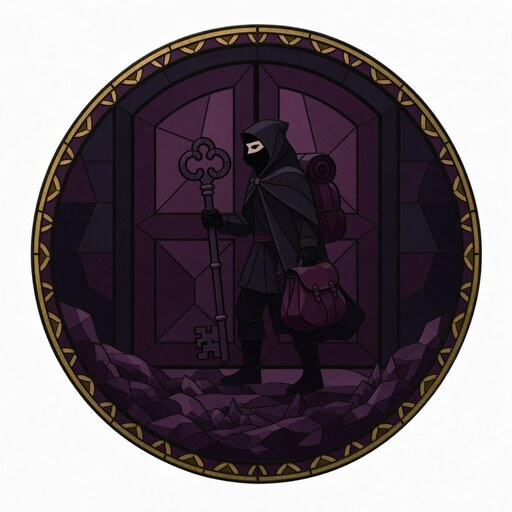
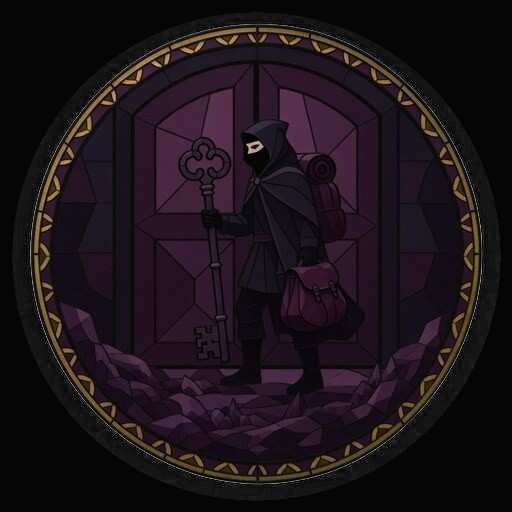
Archetype colouring for skills, black plate art, richer demo progress
- Per-archetype accent on panel wash, progress rings, rated labels, max rank
- Replace white circular plate surrounds with smoky black on archetype art
- Seed Torvald/Leifr with more rated skills and partial Practice tracks

diff --git a/packages/design/campaign.css b/packages/design/campaign.css
@@ -1097,7 +1097,7 @@ a.member:hover {
   border-color: var(--kod-blood-bright);
 }
 
-/* Skills — large 3×4 archetype panels */
+/* Skills — large 3×4 archetype panels (per-archetype colour) */
 .skill-wheel {
   display: grid;
   grid-template-columns: repeat(3, minmax(0, 1fr));
@@ -1117,11 +1117,58 @@ a.member:hover {
 }
 
 .arch {
+  --arch-accent: var(--kod-blood);
+  --arch-accent-bright: var(--kod-blood-bright);
+  --arch-accent-deep: var(--kod-blood-deep);
+  --arch-track: #1a1414;
   position: relative;
   overflow: hidden;
   min-height: 14rem;
-  background: #0a0808;
-  border-top: 3px solid color-mix(in srgb, var(--kod-blood) 40%, #333);
+  background: linear-gradient(
+    180deg,
+    color-mix(in srgb, var(--arch-accent) 22%, #0a0808) 0%,
+    #080606 72%
+  );
+  border-top: 3px solid color-mix(in srgb, var(--arch-accent) 70%, #333);
+  box-shadow: inset 0 0 40px color-mix(in srgb, var(--arch-accent) 8%, transparent);
+}
+
+/* Guidebook archetype washes */
+.arch--warrior {
+  --arch-accent: #b01c1c;
+  --arch-accent-bright: #d03030;
+  --arch-accent-deep: #5a1010;
+  --arch-track: #1c1010;
+}
+.arch--wayfarer {
+  --arch-accent: #2a8a55;
+  --arch-accent-bright: #3cb870;
+  --arch-accent-deep: #0e3a22;
+  --arch-track: #0e1812;
+}
+.arch--artisan {
+  --arch-accent: #8a7a6a;
+  --arch-accent-bright: #b0a090;
+  --arch-accent-deep: #3a322c;
+  --arch-track: #161210;
+}
+.arch--mother {
+  --arch-accent: #c4a035;
+  --arch-accent-bright: #e0c050;
+  --arch-accent-deep: #4a3a10;
+  --arch-track: #18140c;
+}
+.arch--sage {
+  --arch-accent: #5a5ab8;
+  --arch-accent-bright: #7a7ad4;
+  --arch-accent-deep: #1e1e4a;
+  --arch-track: #101018;
+}
+.arch--trickster {
+  --arch-accent: #6a3a7a;
+  --arch-accent-bright: #9a5ab0;
+  --arch-accent-deep: #2a1432;
+  --arch-track: #140e16;
 }
 
 .arch__art {
@@ -1134,9 +1181,9 @@ a.member:hover {
   width: 100%;
   height: 100%;
   object-fit: cover;
-  object-position: center 18%;
-  opacity: 0.38;
-  filter: saturate(0.75) contrast(1.08) brightness(0.72);
+  object-position: center center;
+  opacity: 0.42;
+  filter: saturate(0.9) contrast(1.05) brightness(0.88);
 }
 
 .arch__art::after {
@@ -1144,8 +1191,20 @@ a.member:hover {
   position: absolute;
   inset: 0;
   background:
-    linear-gradient(180deg, rgba(5, 5, 5, 0.2) 0%, rgba(5, 5, 5, 0.55) 45%, rgba(5, 5, 5, 0.92) 100%),
-    linear-gradient(90deg, rgba(5, 5, 5, 0.55) 0%, transparent 40%);
+    radial-gradient(
+      ellipse 70% 65% at 50% 38%,
+      transparent 25%,
+      color-mix(in srgb, var(--arch-accent-deep) 35%, transparent) 70%,
+      rgba(5, 5, 5, 0.88) 100%
+    ),
+    linear-gradient(
+      180deg,
+      color-mix(in srgb, var(--arch-accent-deep) 40%, transparent) 0%,
+      transparent 28%,
+      rgba(5, 5, 5, 0.55) 62%,
+      rgba(5, 5, 5, 0.94) 100%
+    ),
+    linear-gradient(90deg, rgba(5, 5, 5, 0.5) 0%, transparent 35%);
 }
 
 .arch__body {
@@ -1164,13 +1223,15 @@ a.member:hover {
   font-size: 1.15rem;
   text-shadow: 0 1px 6px #000;
   margin-bottom: 0.1rem;
+  border-left: 3px solid var(--arch-accent);
+  padding-left: 0.45rem;
 }
 
 .arch__tag {
   display: block;
   font-size: 0.75rem;
-  color: var(--kod-silver-dim);
-  margin-bottom: 0.55rem;
+  color: color-mix(in srgb, var(--kod-silver-dim) 75%, var(--arch-accent-bright));
+  margin: 0.15rem 0 0.55rem 0.55rem;
 }
 
 .arch__skills {
@@ -1202,19 +1263,34 @@ a.member:hover {
   height: 2.85rem;
   margin: 0 auto 0.25rem;
   border-radius: 50%;
-  background: conic-gradient(var(--kod-blood) calc(var(--p) * 1turn), #1e1818 0);
+  background: conic-gradient(
+    var(--arch-accent-bright) calc(var(--p) * 1turn),
+    var(--arch-track) 0
+  );
   display: grid;
   place-items: center;
   box-shadow:
     inset 0 0 0 2px #0a0a0a,
-    0 0 0 1px color-mix(in srgb, #000 50%, transparent);
+    0 0 0 1px color-mix(in srgb, var(--arch-accent) 35%, transparent),
+    0 0 10px color-mix(in srgb, var(--arch-accent) 18%, transparent);
+}
+
+.skill[data-rated='true'] .skill__ring {
+  box-shadow:
+    inset 0 0 0 2px #0a0a0a,
+    0 0 0 1px color-mix(in srgb, var(--arch-accent-bright) 55%, transparent),
+    0 0 12px color-mix(in srgb, var(--arch-accent) 28%, transparent);
 }
 
 .skill__inner {
   width: 2.05rem;
   height: 2.05rem;
   border-radius: 50%;
-  background: #0e0c0c;
+  background: radial-gradient(
+    circle at 40% 35%,
+    color-mix(in srgb, var(--arch-track) 40%, #141010),
+    #0a0808 70%
+  );
   display: grid;
   place-items: center;
   font-size: 1.05rem;
@@ -1222,8 +1298,19 @@ a.member:hover {
   font-variant-numeric: tabular-nums;
 }
 
+.skill[data-rated='true'] .skill__inner {
+  color: color-mix(in srgb, #fff8f0 70%, var(--arch-accent-bright));
+  border: 1px solid color-mix(in srgb, var(--arch-accent) 30%, transparent);
+}
+
 .skill[data-rating='0'] .skill__inner {
   color: #4a4440;
+  border: none;
+}
+
+.skill[data-rating='3'] .skill__inner {
+  color: var(--arch-accent-bright);
+  box-shadow: inset 0 0 8px color-mix(in srgb, var(--arch-accent) 35%, transparent);
 }
 
 .skill__name {
@@ -1235,7 +1322,7 @@ a.member:hover {
 }
 
 .skill[data-rated='true'] .skill__name {
-  color: #e8e0d4;
+  color: color-mix(in srgb, #e8e0d4 55%, var(--arch-accent-bright));
 }
 
 /* Echoes — live sheet, not tutorial columns */

diff --git a/packages/store/src/seed.ts b/packages/store/src/seed.ts
@@ -40,15 +40,72 @@ export function demoTorvald(): CharacterRecord {
     },
     foundationsEffective: {},
     skills: [
+      // Artisan core
       {
         name: 'Carpentry & Masonry',
         rating: 2,
-        practice: 12,
+        practice: 28,
         threshold: 48,
         foundation: 'Strength',
       },
-      { name: 'Negotiation', rating: 1, practice: 6, threshold: 24, foundation: 'Authority' },
-      { name: 'Handcrafting', rating: 1, practice: 4, threshold: 24, foundation: 'Dexterity' },
+      {
+        name: 'Handcrafting',
+        rating: 1,
+        practice: 14,
+        threshold: 24,
+        foundation: 'Dexterity',
+      },
+      {
+        name: 'Tinkering & Repair',
+        rating: 1,
+        practice: 9,
+        threshold: 24,
+        foundation: 'Constitution',
+      },
+      {
+        name: 'Appraisal',
+        rating: 1,
+        practice: 4,
+        threshold: 24,
+        foundation: 'Perception',
+      },
+      {
+        name: 'Engineering & Design',
+        rating: 1,
+        practice: 2,
+        threshold: 24,
+        foundation: 'Intellect',
+      },
+      {
+        name: 'Smithing & Forging',
+        rating: 1,
+        practice: 7,
+        threshold: 24,
+        foundation: 'Strength',
+      },
+      // Sage / social
+      {
+        name: 'Negotiation',
+        rating: 1,
+        practice: 16,
+        threshold: 24,
+        foundation: 'Authority',
+      },
+      {
+        name: 'Arithmetic & Accounting',
+        rating: 1,
+        practice: 11,
+        threshold: 24,
+        foundation: 'Intellect',
+      },
+      // Wayfarer scrap
+      {
+        name: 'Tradecraft',
+        rating: 1,
+        practice: 5,
+        threshold: 24,
+        foundation: 'Charisma',
+      },
     ],
     traits: [
       { name: 'Steady hands', note: 'Fine work under haste does not shake him easily.' },
@@ -144,9 +201,86 @@ export function demoLeifr(): CharacterRecord {
     },
     foundationsEffective: {},
     skills: [
-      { name: 'Command', rating: 2, practice: 0, threshold: 48, foundation: 'Authority' },
-      { name: 'Tactics', rating: 1, practice: 10, threshold: 24, foundation: 'Intellect' },
-      { name: 'Intimidate', rating: 1, practice: 3, threshold: 24, foundation: 'Authority' },
+      // Warrior core
+      {
+        name: 'Command',
+        rating: 2,
+        practice: 18,
+        threshold: 48,
+        foundation: 'Authority',
+      },
+      {
+        name: 'Tactics',
+        rating: 1,
+        practice: 19,
+        threshold: 24,
+        foundation: 'Intellect',
+      },
+      {
+        name: 'Intimidate',
+        rating: 1,
+        practice: 12,
+        threshold: 24,
+        foundation: 'Authority',
+      },
+      {
+        name: 'Slash',
+        rating: 1,
+        practice: 8,
+        threshold: 24,
+        foundation: 'Strength',
+      },
+      {
+        name: 'Pierce',
+        rating: 1,
+        practice: 6,
+        threshold: 24,
+        foundation: 'Dexterity',
+      },
+      {
+        name: 'Deflection',
+        rating: 1,
+        practice: 15,
+        threshold: 24,
+        foundation: 'Resolve',
+      },
+      {
+        name: 'Combat Awareness',
+        rating: 1,
+        practice: 10,
+        threshold: 24,
+        foundation: 'Perception',
+      },
+      {
+        name: 'Footwork',
+        rating: 1,
+        practice: 4,
+        threshold: 24,
+        foundation: 'Dexterity',
+      },
+      // Wayfarer edge for ford work
+      {
+        name: 'Scouting',
+        rating: 1,
+        practice: 7,
+        threshold: 24,
+        foundation: 'Perception',
+      },
+      {
+        name: 'Swimming',
+        rating: 1,
+        practice: 3,
+        threshold: 24,
+        foundation: 'Constitution',
+      },
+      // Sage scrap
+      {
+        name: 'Strategy',
+        rating: 1,
+        practice: 5,
+        threshold: 24,
+        foundation: 'Intellect',
+      },
     ],
     traits: [{ name: 'Scarred knuckles', note: 'From the taking of the shore — not from sport.' }],
     exertion: { current: 5, max: 0 },

diff --git a/apps/campaign-ui/src/data/fixture.ts b/apps/campaign-ui/src/data/fixture.ts
@@ -220,9 +220,15 @@ export const fixtureCommunity: FixtureCommunity = {
         Authority: 1,
       },
       skills: [
-        { name: 'Carpentry & Masonry', rating: 2, practice: 12, threshold: 48 },
-        { name: 'Negotiation', rating: 1, practice: 6, threshold: 24 },
-        { name: 'Handcrafting', rating: 1, practice: 4, threshold: 24 },
+        { name: 'Carpentry & Masonry', rating: 2, practice: 28, threshold: 48 },
+        { name: 'Handcrafting', rating: 1, practice: 14, threshold: 24 },
+        { name: 'Tinkering & Repair', rating: 1, practice: 9, threshold: 24 },
+        { name: 'Appraisal', rating: 1, practice: 4, threshold: 24 },
+        { name: 'Engineering & Design', rating: 1, practice: 2, threshold: 24 },
+        { name: 'Smithing & Forging', rating: 1, practice: 7, threshold: 24 },
+        { name: 'Negotiation', rating: 1, practice: 16, threshold: 24 },
+        { name: 'Arithmetic & Accounting', rating: 1, practice: 11, threshold: 24 },
+        { name: 'Tradecraft', rating: 1, practice: 5, threshold: 24 },
       ],
       traits: [{ name: 'Steady hands', note: 'Fine work under haste does not shake him.' }],
       exertion: { current: 4, max: 6 },
@@ -311,9 +317,17 @@ export const fixtureCommunity: FixtureCommunity = {
         Authority: 2,
       },
       skills: [
-        { name: 'Command', rating: 2, practice: 0, threshold: 48 },
-        { name: 'Tactics', rating: 1, practice: 10, threshold: 24 },
-        { name: 'Intimidate', rating: 1, practice: 3, threshold: 24 },
+        { name: 'Command', rating: 2, practice: 18, threshold: 48 },
+        { name: 'Tactics', rating: 1, practice: 19, threshold: 24 },
+        { name: 'Intimidate', rating: 1, practice: 12, threshold: 24 },
+        { name: 'Slash', rating: 1, practice: 8, threshold: 24 },
+        { name: 'Pierce', rating: 1, practice: 6, threshold: 24 },
+        { name: 'Deflection', rating: 1, practice: 15, threshold: 24 },
+        { name: 'Combat Awareness', rating: 1, practice: 10, threshold: 24 },
+        { name: 'Footwork', rating: 1, practice: 4, threshold: 24 },
+        { name: 'Scouting', rating: 1, practice: 7, threshold: 24 },
+        { name: 'Swimming', rating: 1, practice: 3, threshold: 24 },
+        { name: 'Strategy', rating: 1, practice: 5, threshold: 24 },
       ],
       traits: [{ name: 'Scarred knuckles' }],
       exertion: { current: 5, max: 5 },
